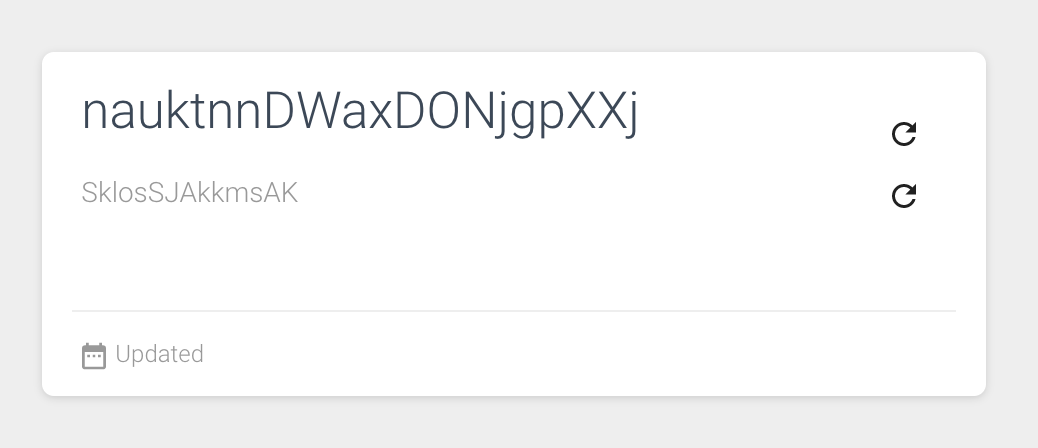
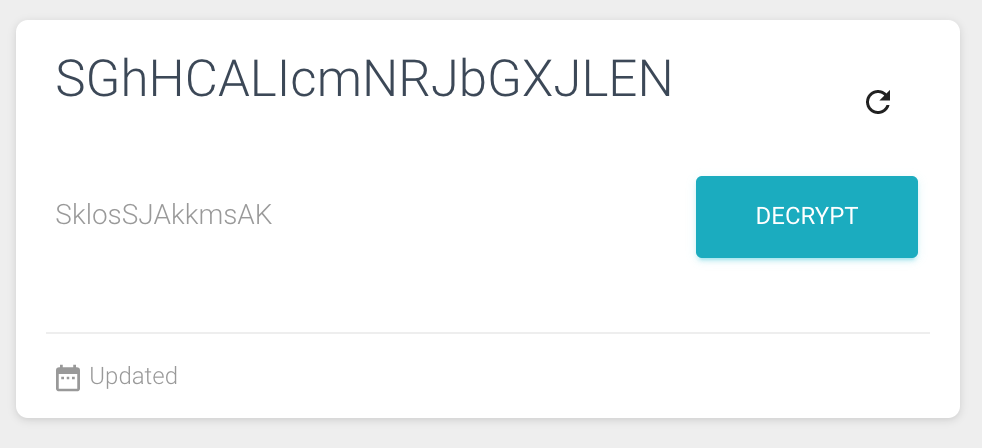
encryption task updated

diff --git a/README.md b/README.md
@@ -18,7 +18,7 @@ _Here's what you need to do:_
 
 3) Task: Make The Component as shown bellow
 
-![](images/image1.png)
+![](images/image3.png)
 
 
     1. The Main Text should get it from the bellow API
@@ -38,24 +38,50 @@ _Here's what you need to do:_
                     }
                 }
 
-    2. The Main Text Should Refresh on Refresh button, or everytime window reloads
+    2. The Main Text Should Refresh on clicking Refresh button, and everytime window reloads
 
-    3. create firebase functions using :
+    3. create REST API using firebase cloud functions:
 
-        a. firebase functions (cloud functions: rest)
+        Method: post
+        Req : {
 
+            type : 'encrypt', // or 'decrypt'
+
+            plain_text : 'Hello World', // plain text
+
+            secret : 'ABCD001'
+
+        }
+
+        // IF type is encrypt show encrypted text
+
+        Res : {
+
+            statusCode: '200',
+        
+            status: 'success',
+
+            cipherText: '12n3hbubhbah2mlkaAmKkkcksksznk'
+
+        }
+
+        // IF type is decrypt show decrypted text
+
+            Res : {
+                        statusCode: '200',
+                        status: 'success',
+                        plainText: 'Hello world'
+                    }
 
     4. firebase function Logic : 
 
-        a) on calling the function it shoud generate a string based on timestamp
+        a) on click button Encrypt call the Rest API with type = 'encrypt' it should give the encrypted value
 
-        b) on refresh string should change
+        b) on click button Decrypt call the Rest API with type = 'decrypt' it should give the original text what you sent as plain text
 
-        c) All the strings has to be diffrent upon the timestamp
+        d) All the values you should get from the API
 
-        d) Display the timestamp based generated string as the Second Text as shown in the Screenshot.
-
-    5. on Refresh while getting the result show loader untill the value comes as shown bellow.
+    5. on Pressing Refresh Button while getting the result show loader untill the value comes as shown bellow.
 
 ![](images/image2.png)
 
